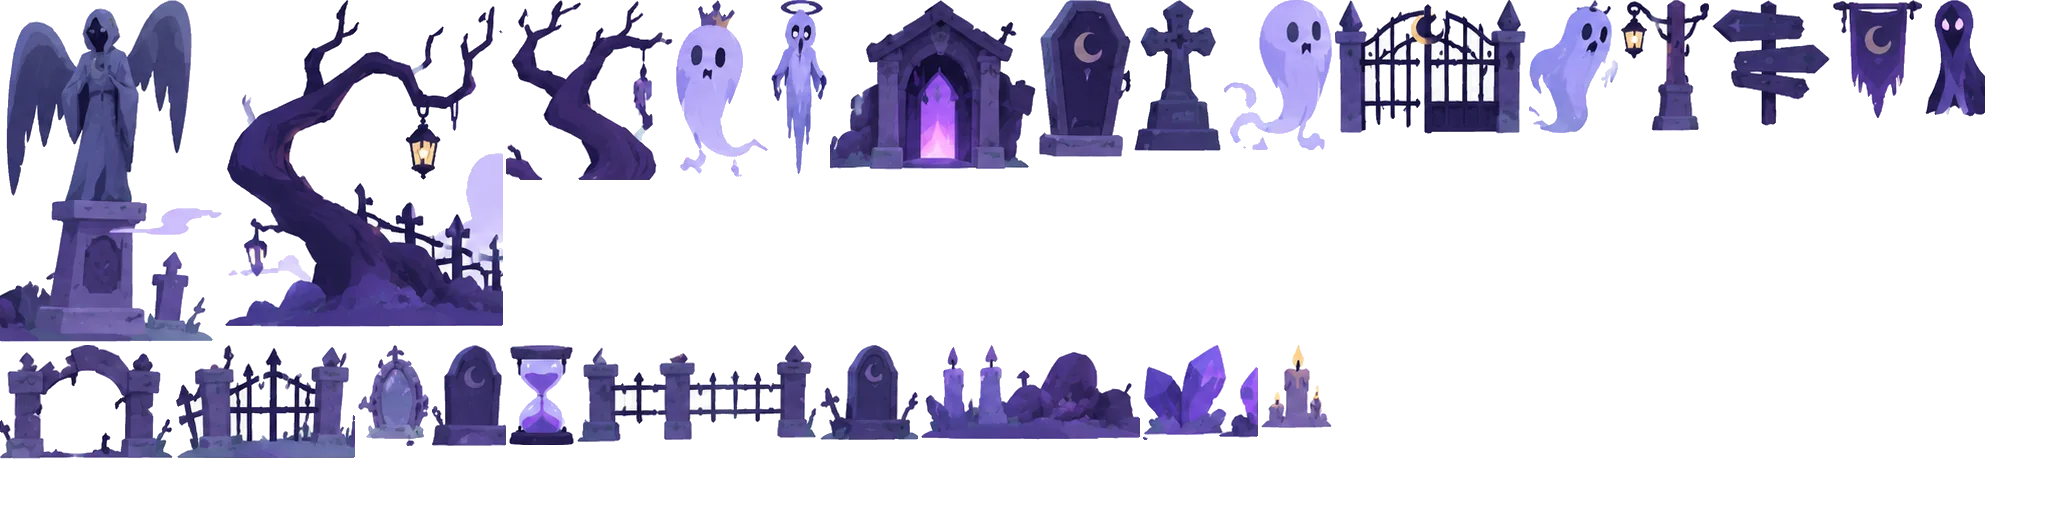
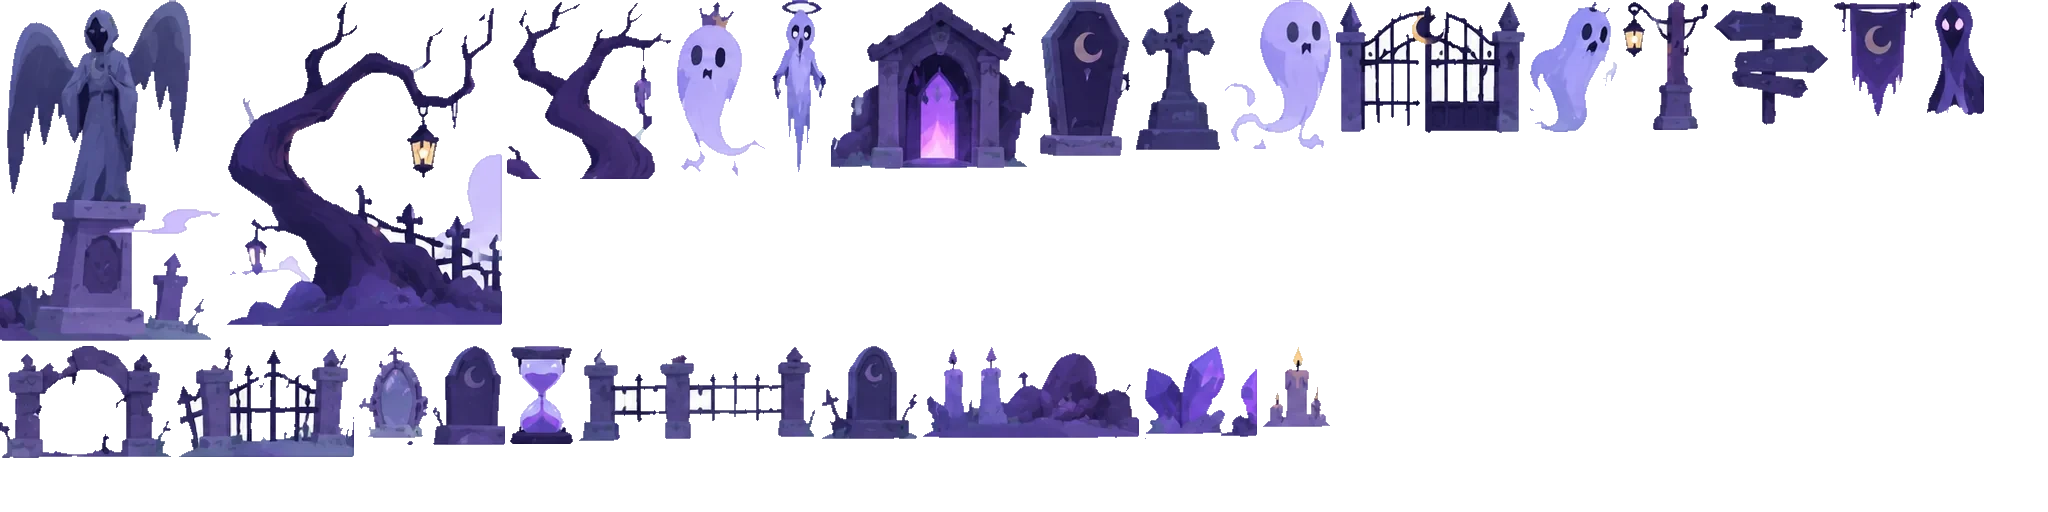
v18.3: рисованный Сумеречный лес — только вдали, без белой обводки
- Нарисованные деревья и ворота стоят далеко за 3D-лесом (а не у дороги)
- Убраны белые края и белые «дырки» от вырезания на листе Сумеречного леса; края остальных листов тоже затемнены

Claude-Session: https://claude.ai/code/session_01VYZck5D4fAkqUJDYj6jMiC

diff --git a/index.html b/index.html
@@ -7127,10 +7127,11 @@ const BIO_LITE = {tw:1, sw:1, ice:1};
 function bioPlace(b, it, z, pools, meta){
   it.z = z; it.uvDirty = true;
   if (BIO_LITE[b]) {
-    if (it.i % 2) { it.s = 0; it.sp = null; return; }
-    const big = pools.big.length && Math.random() < 0.75, pool = big ? pools.big : pools.mid; if (!pool.length) { it.s = 0; it.sp = null; return; }
-    const sp = pool[ri(pool.length)], side = Math.random() < 0.5 ? -1 : 1, d = meta[sp], xr = big ? [13, 25] : [10, 17];
-    it.sp = sp; it.x = side * (xr[0] + Math.random() * (xr[1] - xr[0])); it.s = 0.9 + Math.random() * 0.3; it.flip = Math.random() < 0.5; it.h = d.h * it.s; it.w = it.h * d.a; return;
+    /* drawn props live far away now: big ones deep behind the 3D forest, a few mid ones a little closer */
+    if (b !== 'tw' && it.i % 2) { it.s = 0; it.sp = null; return; }
+    const big = pools.big.length && (b === 'tw' || Math.random() < 0.8), pool = big ? pools.big : pools.mid; if (!pool.length) { it.s = 0; it.sp = null; return; }
+    const sp = pool[ri(pool.length)], side = Math.random() < 0.5 ? -1 : 1, d = meta[sp], xr = big ? [26, 46] : [18, 28];
+    it.sp = sp; it.x = side * (xr[0] + Math.random() * (xr[1] - xr[0])); it.s = big ? 1.1 + Math.random() * 0.45 : 1.0 + Math.random() * 0.25; it.flip = Math.random() < 0.5; it.h = d.h * it.s; it.w = it.h * d.a; return;
   }
   const r = Math.random(), kind = r < 0.2 ? 'big' : r < 0.55 ? 'mid' : r < 0.86 ? 'small' : 'crit';
   const pool = pools[kind].length ? pools[kind] : pools.mid.length ? pools.mid : pools.small; if (!pool || !pool.length) { it.s = 0; return; }
@@ -7333,6 +7334,7 @@ function junctionExtras(sch, t0){
   }
   return false;
 }
+function bioTex(b){ return BIOV.tex[b] || (BIOV.tex[b] = assetTex('bio_' + b + '.webp?v=182')); }
 /* ================= v18 TUNNEL: darker, torch-lit, cobwebs and cave props, bats all the way,
    a vampire that swoops out of the dark once, and black blob creatures that crawl out of the walls
    and pile up behind the heroine, chasing her until the light at the exit scares them off ================= */
